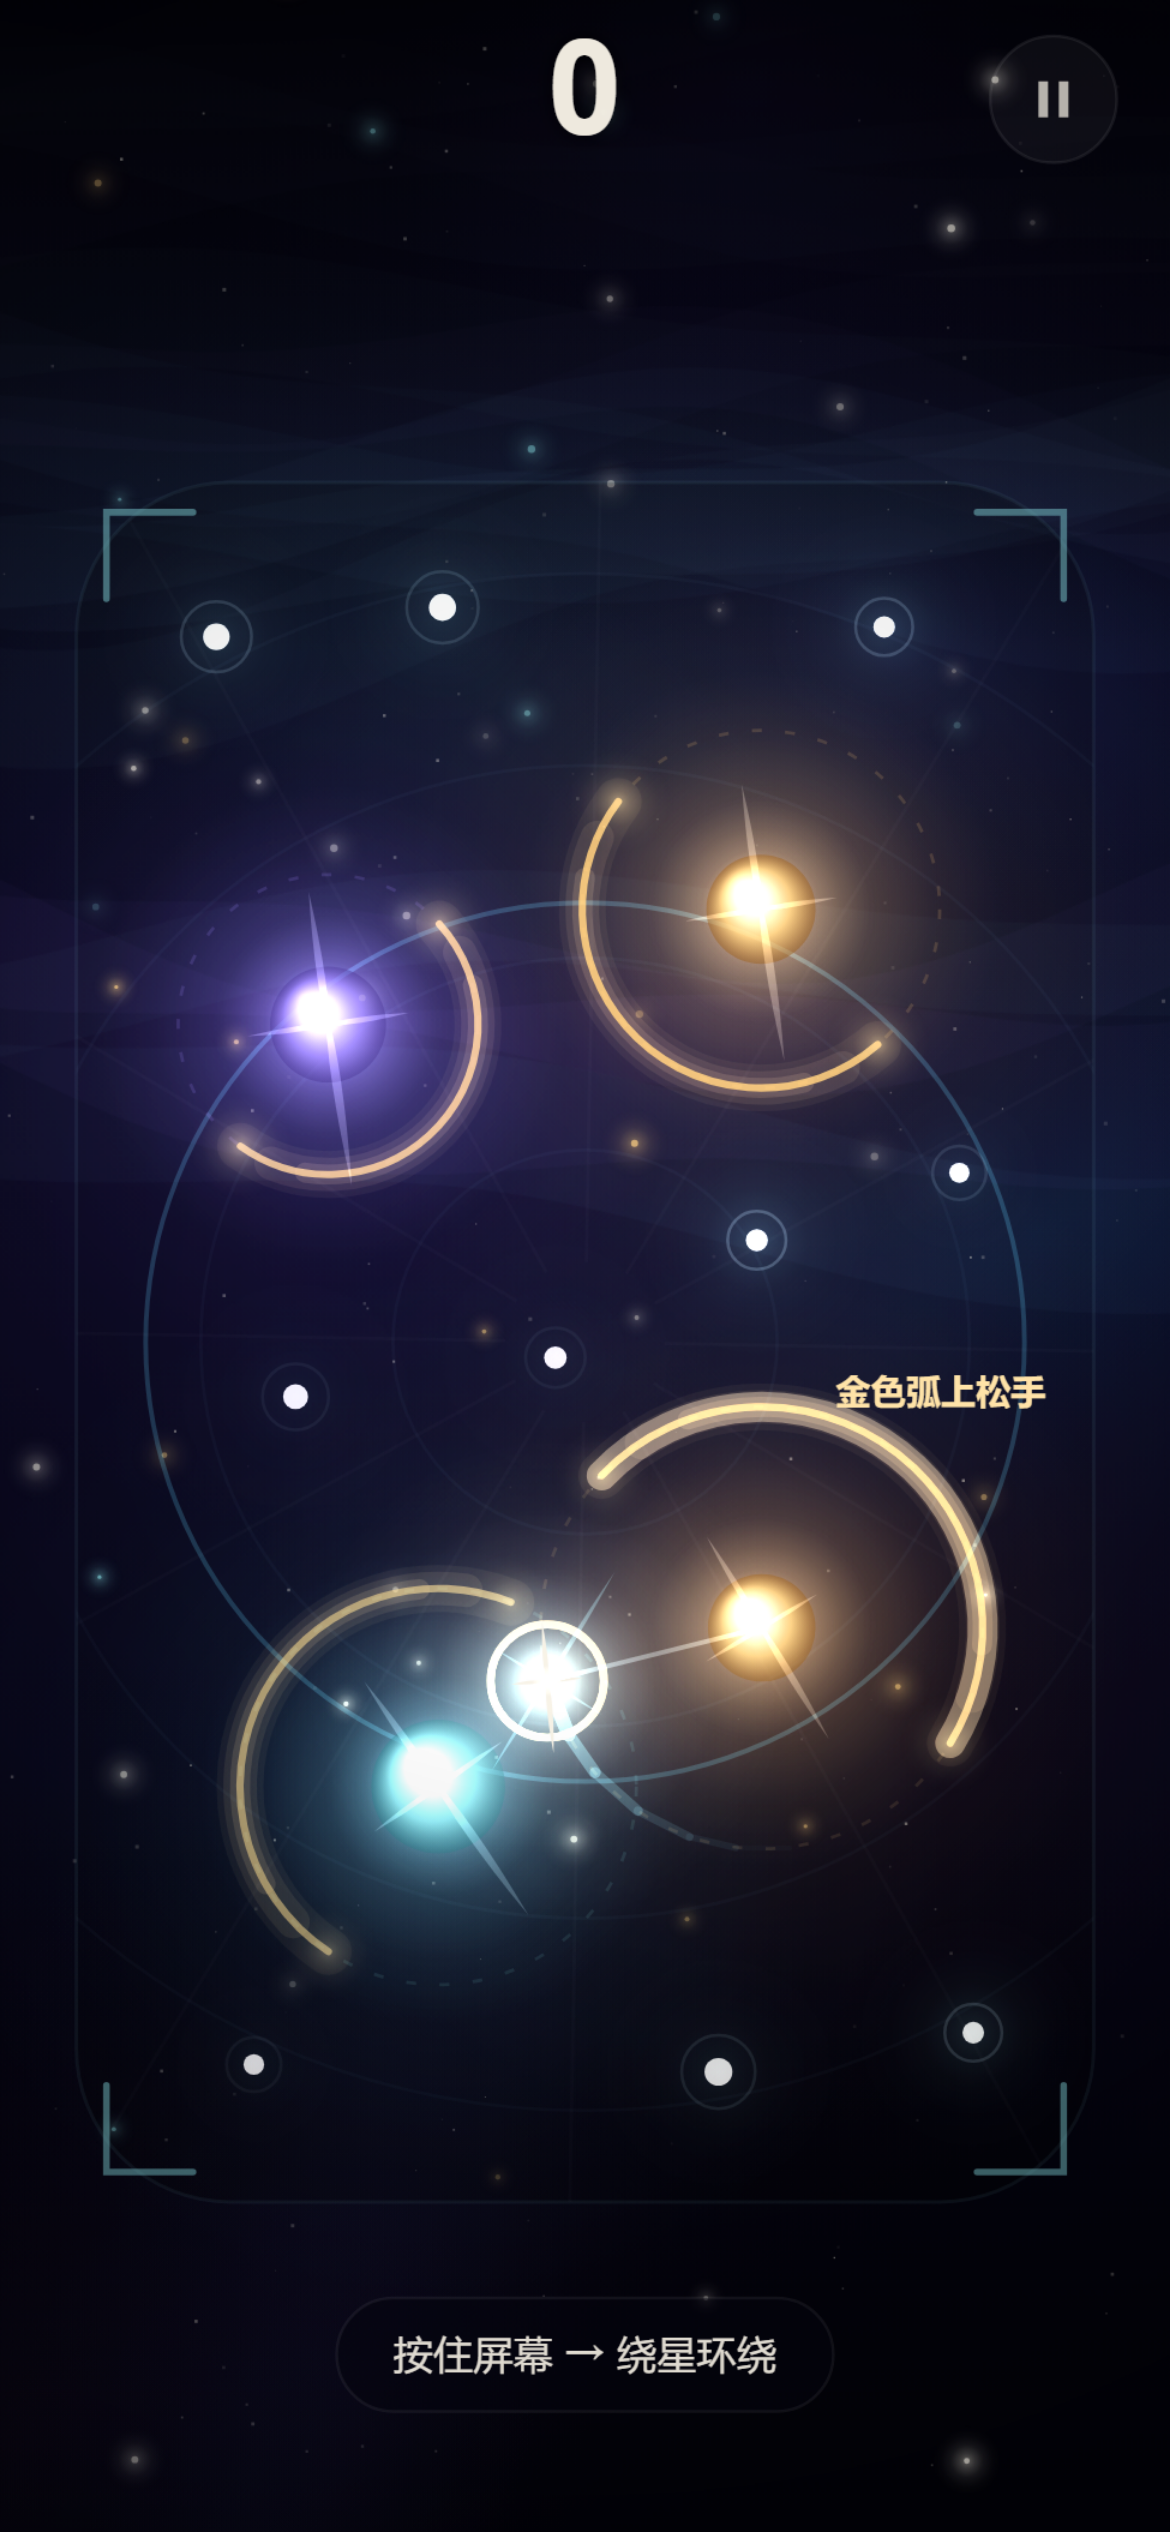
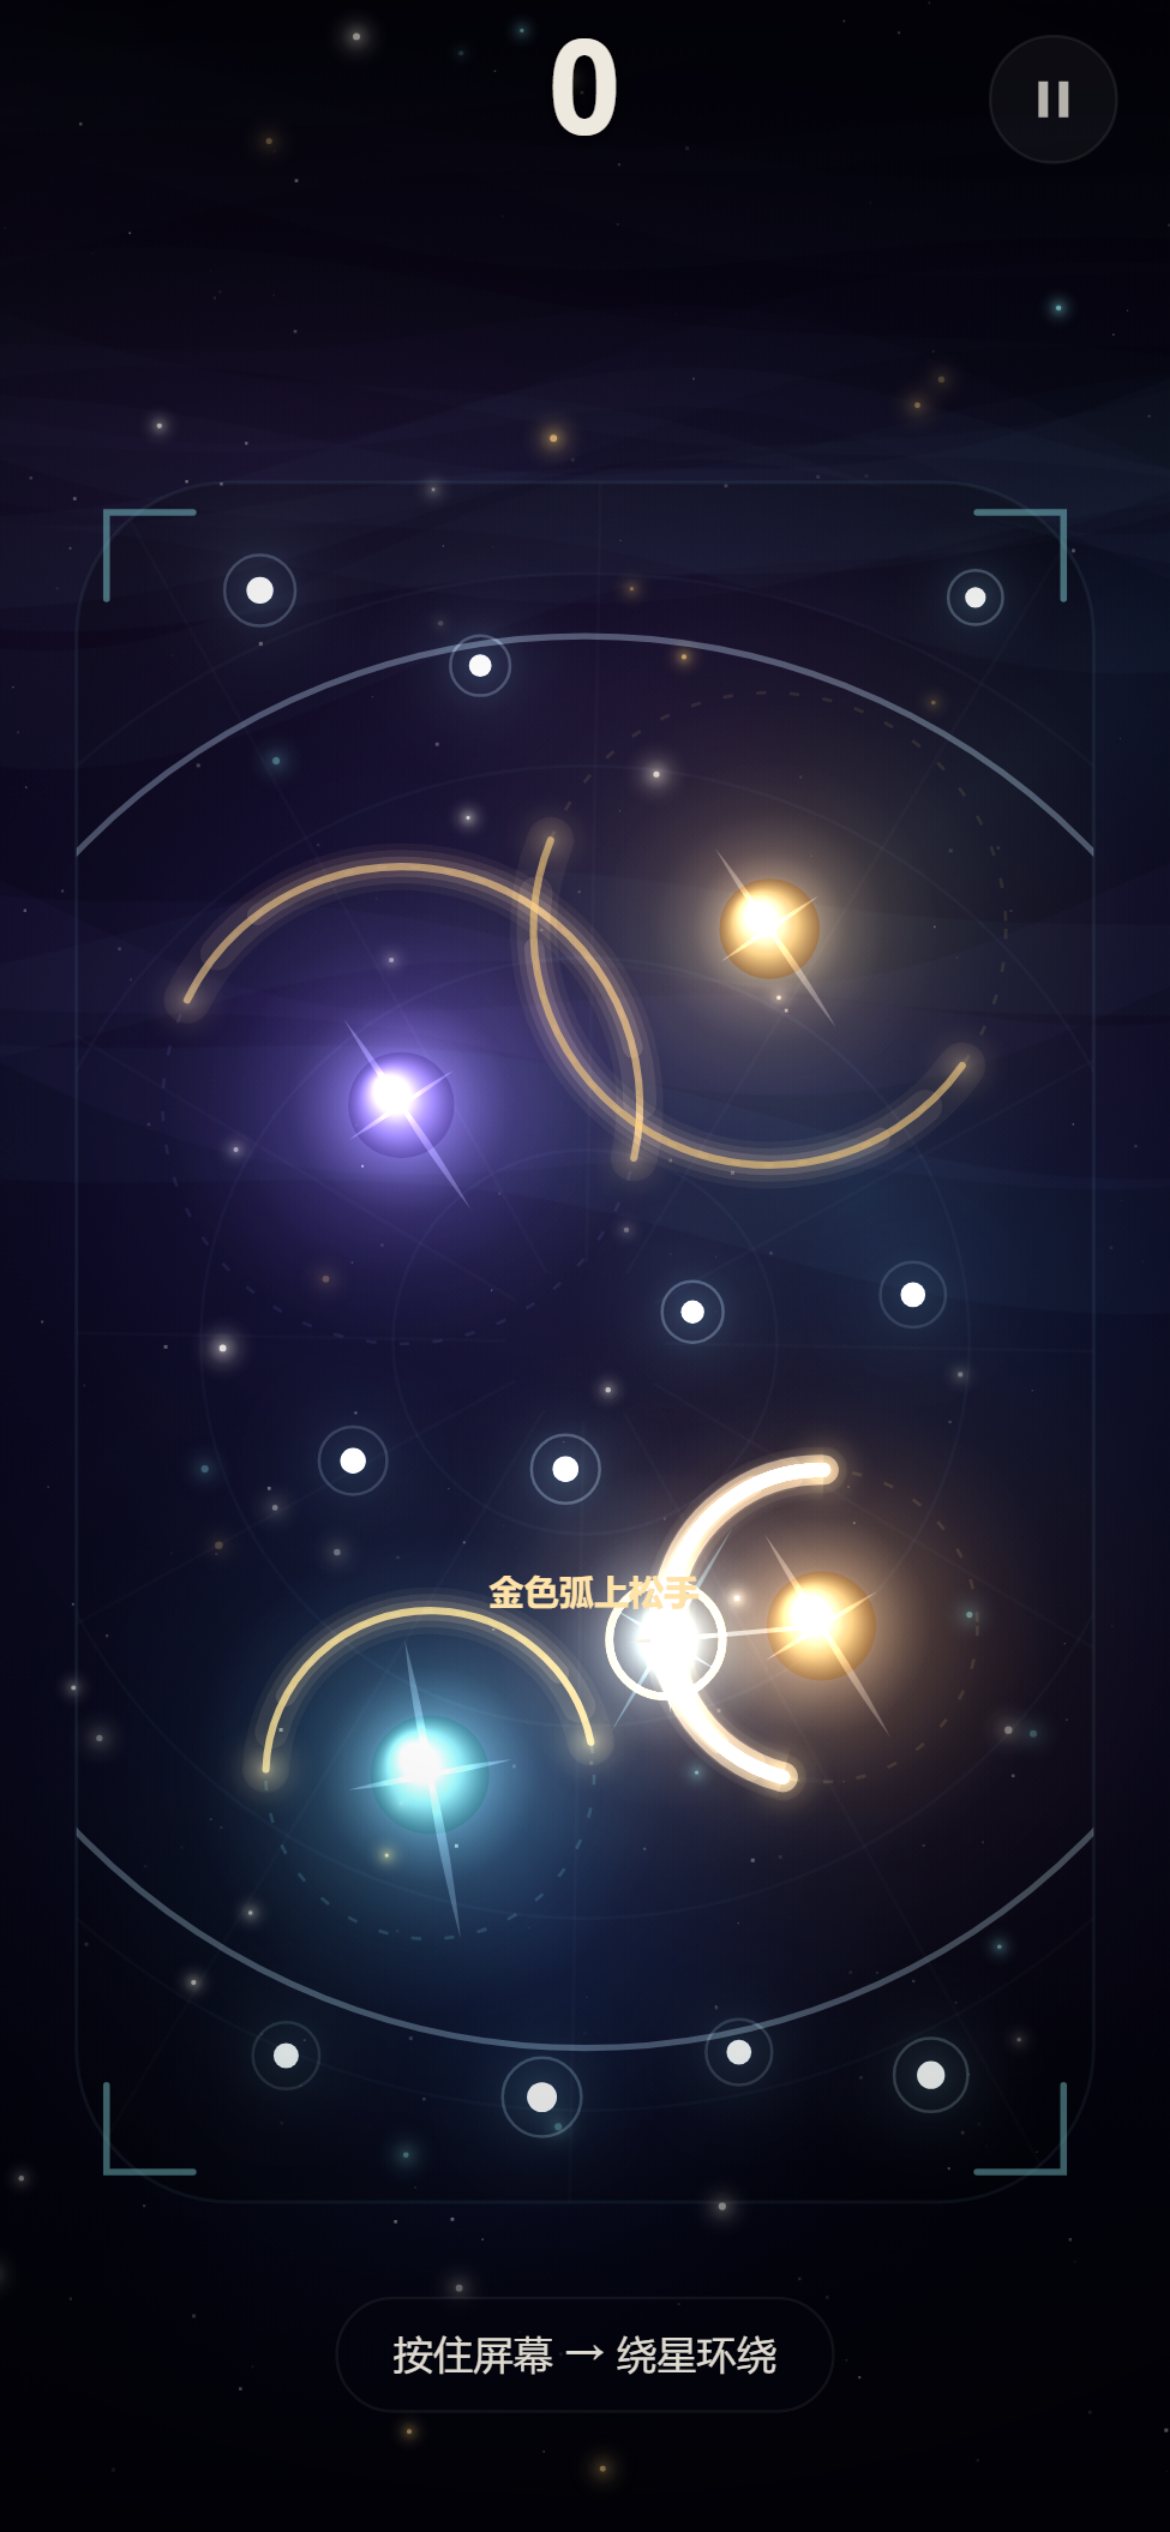
fix: shard placement, HUD record state, quieter frame
Three real problems found by measuring instead of eyeballing:

1. Star orbit disks occupy ~50% of a phone-sized arena, so the clearance
   margins I had added made shard placement geometrically impossible and
   the late game silently stopped adding hazards. Placement now searches
   tiers for the roomiest spot, with a hard floor that keeps a shard out of
   any orbit ring at every tier -- verified over 3000 sampled spawns.
2. The frame turned red with difficulty, but the frame bounces rather than
   kills; red now means shards only.
3. The HUD printed a best score lower than the live score. It now switches
   to a gold record callout once the run passes the record.

diff --git a/src/world.js b/src/world.js
@@ -463,8 +463,10 @@ export class World {
   }
 
   shockwave(x, y, radius) {
-    this.rings.push({ x, y, r: 10, r0: 10, toR: radius, life: 0.62, maxLife: 0.62, color: C.goldHot, alpha: 0.95, width: 4 * this.S, shatter: true });
-    this.rings.push({ x, y, r: 10, r0: 10, toR: radius * 0.66, life: 0.5, maxLife: 0.5, color: C.cyanHot, alpha: 0.7, width: 2 * this.S });
+    // Short and bright: a local hit, not a screen-wide ring. Long, large rings
+    // read as background noise and compete with the orbit rings.
+    this.rings.push({ x, y, r: 10, r0: 10, toR: radius * 0.52, life: 0.42, maxLife: 0.42, color: C.goldHot, alpha: 0.9, width: 4.5 * this.S });
+    this.rings.push({ x, y, r: 10, r0: 10, toR: radius * 0.32, life: 0.32, maxLife: 0.32, color: C.cyanHot, alpha: 0.62, width: 2 * this.S });
   }
 
   // ------------------------------------------------------------------- flow
@@ -1084,29 +1086,66 @@ export class World {
     const want = this.state === 'play' ? this.targetShards() : 0;
     while (this.shards.length < want) {
       const a = this.arena;
-      // Try the fair keep-out zones first, then relax them. On a small phone
-      // with five stars and six shards there may be no spot that satisfies the
-      // ideal spacing at all, and silently spawning nothing would mean the
-      // game just stops getting harder.
+      // Search for the best legal spot: sample a handful of candidates at each
+      // spacing tier and keep the roomiest one. Relaxing the keep-out zones
+      // tier by tier matters because on a small phone with five stars and six
+      // shards there may be no spot that satisfies the ideal spacing — and
+      // silently spawning nothing would stop the game getting harder.
+      const CANDIDATES = 60;
       let placed = null;
-      for (let tier = 0; tier < 4 && !placed; tier++) {
-        const relax = tier * 0.36;
-        const playerGap = 210 * S * (1 - relax * 0.45);
-        const starGap = 104 * S * (1 - relax * 0.5);
-        const shardGap = 128 * S * (1 - relax * 0.55);
-        for (let guard = 0; guard < 28; guard++) {
-          const x = rand(a.x + 48, a.x + a.w - 48);
-          const y = rand(a.y + 48, a.y + a.h - 48);
-          if (dist(x, y, p.x, p.y) < playerGap) continue;
+      for (let tier = 0; tier < 8 && !placed; tier++) {
+        const relax = Math.min(tier * 0.16, 0.95);
+        const playerGap = 132 * S * (1 - relax * 0.6);
+        const starGap = 26 * S * (1 - relax * 0.55);
+        const shardGap = 118 * S * (1 - relax * 0.5);
+        let best = null;
+        let bestScore = -Infinity;
+        for (let i = 0; i < CANDIDATES; i++) {
+          const x = rand(a.x + 46, a.x + a.w - 46);
+          const y = rand(a.y + 46, a.y + a.h - 46);
+          const dp = dist(x, y, p.x, p.y);
+          if (dp < playerGap) continue;
           let ok = true;
-          for (const s of this.stars) if (dist(x, y, s.x, s.y) < s.orbitR + starGap) ok = false;
-          for (const o of this.shards) if (dist(x, y, o.x, o.y) < shardGap) ok = false;
-          for (const m of this.motes) if (dist(x, y, m.x, m.y) < 22 * S) ok = false;
+          let clearance = dp - playerGap;
+          for (const s of this.stars) {
+            // Hard floor: never inside an orbit ring, at any relaxation tier.
+            // A shard under the ring you are orbiting is an unavoidable death.
+            if (dist(x, y, s.x, s.y) < s.orbitR + 34 * S) {
+              ok = false;
+              break;
+            }
+            const gap = dist(x, y, s.x, s.y) - (s.orbitR + starGap);
+            if (gap < 0) {
+              ok = false;
+              break;
+            }
+            clearance = Math.min(clearance, gap);
+          }
           if (!ok) continue;
-          placed = { x, y };
-          break;
+          for (const o of this.shards) {
+            const gap = dist(x, y, o.x, o.y) - shardGap;
+            if (gap < 0) {
+              ok = false;
+              break;
+            }
+            clearance = Math.min(clearance, gap);
+          }
+          if (!ok) continue;
+          for (const m of this.motes) {
+            if (dist(x, y, m.x, m.y) < 22 * S) {
+              ok = false;
+              break;
+            }
+          }
+          if (!ok) continue;
+          if (clearance > bestScore) {
+            bestScore = clearance;
+            best = { x, y };
+          }
         }
+        if (best) placed = best;
       }
+      // no legal spot at any spacing tier: stop trying rather than spin
       if (!placed) break;
       this.shards.push(this.makeShard(placed.x, placed.y));
     }
@@ -1242,11 +1281,11 @@ export class World {
           r: 12,
           r0: 12,
           toR: Math.hypot(this.arena.w, this.arena.h) * 0.62,
-          life: 1.1,
-          maxLife: 1.1,
-          color: C.cyanDim,
-          alpha: 0.4,
-          width: 1.6 * this.S,
+          life: 0.62,
+          maxLife: 0.62,
+          color: C.cyanHot,
+          alpha: 0.5,
+          width: 2.4 * this.S,
         });
         for (const s2 of this.stars) s2.arcW = 1.75;
         Audio.sfx('streak');

diff --git a/src/ui.js b/src/ui.js
@@ -418,15 +418,19 @@ export class UI {
     ctx.fillText(scoreStr, w / 2, top + 2);
     ctx.restore();
 
-    // best under it
+    // best under it. Show a live record callout once the run passes it, rather
+    // than a number that reads as a contradiction with the score above.
     if (this.best > 0) {
-      ctx.globalAlpha = 0.5;
-      text(ctx, 'BEST ' + fmtScore(this.best), w / 2, top + 4 + sc * 1.06, {
+      const beating = world.score > this.best;
+      ctx.globalAlpha = beating ? 0.9 : 0.5;
+      const label = beating ? '★ 新纪录' : 'BEST ' + fmtScore(this.best);
+      text(ctx, label, w / 2, top + 4 + sc * 1.06, {
         size: 9 * S,
         weight: 600,
-        color: C.ivoryDim,
+        color: beating ? C.gold : C.ivoryDim,
         track: true,
         spacing: 1.4 * S,
+        font: beating ? FONT_CJK : FONT_NUM,
       });
     }
 
@@ -464,16 +468,18 @@ export class UI {
     this.drawButton(ctx, pb, tt, true);
 
     // tutorial coach
-    if (this.sceneT < 9 && !world.perfects) {
+    if (this.sceneT < 9 && !world.perfects && world.score < 900) {
       this.drawCoach(ctx, tt);
     }
 
-    // danger tint at the edges when shards appear
+    // A faint red pressure at the edges once shards are on the field. It has
+    // to stay very low: the HUD is where the score has to read instantly, and
+    // the shards themselves already carry the danger.
     if (world.shards.length > 0) {
-      const intensity = clamp(world.shards.length / 5, 0, 1) * 0.5 + 0.3;
-      const g = ctx.createRadialGradient(w / 2, h / 2, Math.min(w, h) * 0.36, w / 2, h / 2, Math.max(w, h) * 0.7);
+      const intensity = clamp(world.shards.length / 6, 0, 1);
+      const g = ctx.createRadialGradient(w / 2, h / 2, Math.min(w, h) * 0.46, w / 2, h / 2, Math.max(w, h) * 0.76);
       g.addColorStop(0, 'rgba(0,0,0,0)');
-      g.addColorStop(1, rgba(C.rose, 0.05 * intensity));
+      g.addColorStop(1, rgba(C.roseDeep, 0.1 * intensity));
       ctx.fillStyle = g;
       ctx.fillRect(0, 0, w, h);
     }

diff --git a/src/render.js b/src/render.js
@@ -200,7 +200,9 @@ export class Renderer {
     const a = world.arena;
     const S = world.S;
     const danger = world.state === 'play' ? clamp(world.difficulty(), 0, 1) : 0;
-    const tint = danger > 0.55 ? C.rose : C.cyan;
+    // The frame is a bounce wall, not a hazard, so it never turns red. Red is
+    // reserved for shards; reusing it here would lie about where the danger is.
+    const tint = C.cyan;
 
     ctx.save();
     // inner vignette
@@ -720,15 +722,18 @@ export class Renderer {
       const t = clamp(p.life / p.maxLife, 0, 1);
       const appear = clamp((1 - t) * 6, 0, 1);
       const scale = 1 + (1 - appear) * 0.35;
-      // measure properly and keep the label on screen wherever it was born
+      // measure properly and keep the label on screen wherever it was born.
+      // word labels are drawn with manual tracking, so add the extra gaps or
+      // the clamp under-estimates and the text still overflows.
       if (p._w == null) {
         ctx.font = `700 ${p.size}px ${p.style === 'word' ? FONT_CJK : FONT_NUM}`;
-        p._w = ctx.measureText(p.text).width;
+        const track = p.style === 'word' ? p.size * 0.06 * (p.text.length - 1) : 0;
+        p._w = ctx.measureText(p.text).width + track;
       }
       // small echo labels get a slight lateral offset so stacked gains do not
       // print on top of each other
       const drift = p.style === 'num' ? (hash2(Math.round(p.x), Math.round(p.y)) - 0.5) * 26 * S : 0;
-      const margin = p._w / 2 + 10 * S;
+      const margin = p._w / 2 + 8 * S;
       const px = clamp(p.x + drift, margin, this.w - margin);
       ctx.save();
       ctx.globalAlpha = Math.min(1, t * 1.7) * appear;
